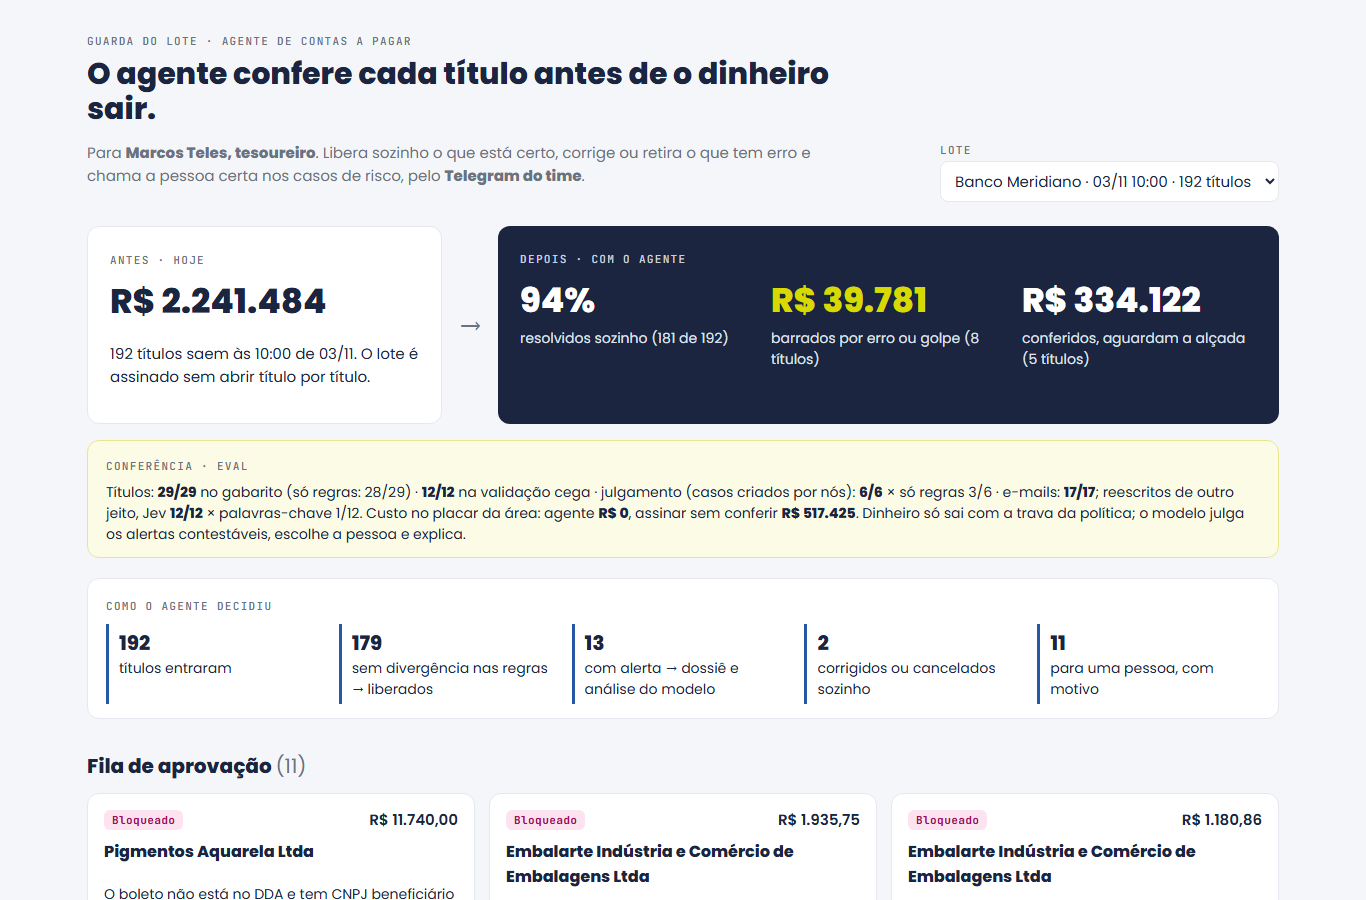
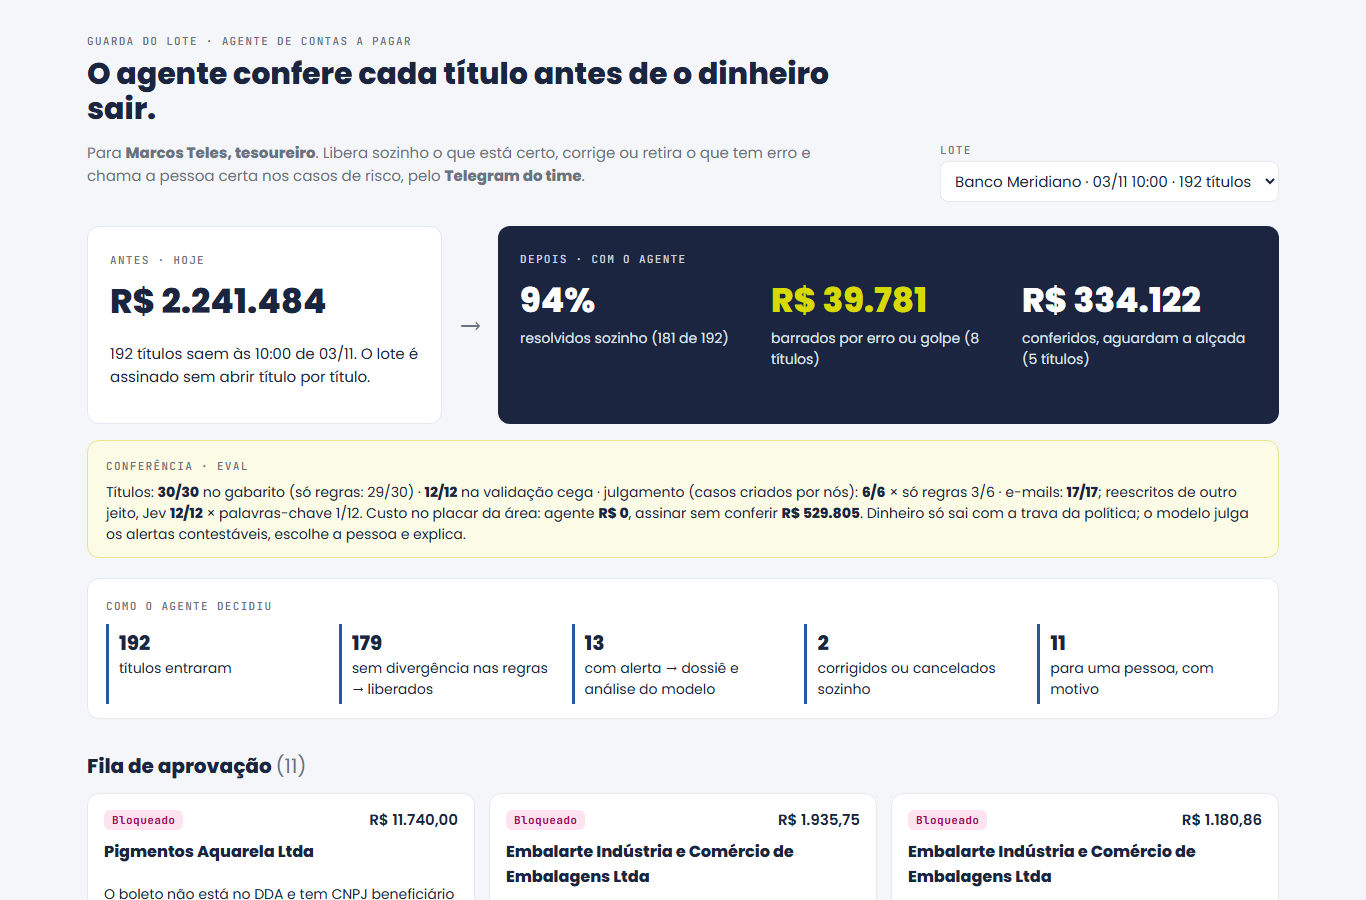
slides com capturas reais e números do gabarito de 30 casos; textos atualizados

Changed region(s): [[0.123, 0.5289, 0.9224, 0.5911]]

diff --git a/entregaveis/submissao.md b/entregaveis/submissao.md
@@ -19,7 +19,7 @@ Guarda do Lote: agente que confere cada pagamento antes de o lote ir ao banco
 ## Problema (549/600)
 
 ```text
-No Gogroup, cerca de 100 títulos por dia útil são lançados à mão e entram sozinhos no lote de remessa. Às 10h e às 14h o arquivo vai ao banco e, pela própria política da área, o tesoureiro assina sem conferir título por título. O lote de 03/11 às 10h tem 192 títulos e R$ 2,24 mi. Nos 876 títulos da semana de 03 a 13/11 (dados fictícios), encontrei um golpe em andamento (conta trocada por e-mail de domínio falso: 25 títulos, R$ 194 mil), 13 duplicidades (R$ 105 mil), 3 boletos já baixados no DDA (R$ 159 mil) e 8 valores com a vírgula deslocada.
+No Gogroup, cerca de 100 títulos por dia útil são lançados à mão e entram sozinhos no lote de remessa. Às 10h e às 14h o arquivo vai ao banco e, pela própria política da área, o tesoureiro assina sem conferir título por título. O lote de 03/11 às 10h tem 192 títulos e R$ 2,24 mi. Nos 876 títulos da semana de 03 a 13/11 (dados fictícios), encontrei um golpe em andamento (conta trocada por e-mail de domínio falso: 25 títulos, R$ 194 mil), 13 duplicidades (R$ 105 mil), 3 boletos já baixados no DDA (R$ 159 mil), 8 valores com a vírgula deslocada e 2 títulos no fornecedor errado.
 ```
 
 ## Solução (739/800)
@@ -31,13 +31,13 @@ Guarda do Lote é um agente de IA que roda antes de cada fechamento sobre o lote
 ## Como usou a IA (768/800)
 
 ```text
-Medi tudo com eval e gabaritos que revisei. Títulos: agente 29/29, só regras 28/29 (o modelo muda 1 caso: aciona o jurídico numa injeção de e-mail). Em 6 títulos com alerta contestável: agente 6/6, só regras 3/6. E-mails reescritos: IA 12/12, palavras-chave 1/12. Erros corrigidos: a regra de domínio parecido escrita pelo Claude bloqueava um fornecedor legítimo; a regra de pago fora do lote marcou 23 títulos, 20 errados; o eval v1 deu 26/29 e a correção abriu uma regressão, pega pelo eval; o gabarito do Claude estava errado num caso e o modelo, certo; meu prompt dizia "você libera até R$ 5 mil" e derrubou o julgamento para 2/6. Uma banca simulada mostrou que o README dava ao modelo um ganho das regras; passei a medir os dois. Limite: ajustei nos mesmos casos.
+Medi tudo com eval e gabaritos que revisei. Títulos: agente 30/30, só regras 29/30 (o modelo muda 1 caso: aciona o jurídico numa injeção de e-mail). Em 6 títulos com alerta contestável: agente 6/6, só regras 3/6. E-mails reescritos: IA 12/12, palavras-chave 1/12. Erros corrigidos: a regra de domínio parecido escrita pelo Claude bloqueava um fornecedor legítimo; a regra de pago fora do lote marcou 23 títulos, 20 errados; o eval v1 deu 26/29 e a correção abriu uma regressão, pega pelo eval; o gabarito do Claude estava errado num caso e o modelo, certo; meu prompt dizia "você libera até R$ 5 mil" e derrubou o julgamento para 2/6. Uma banca simulada mostrou que o README dava ao modelo um ganho das regras; passei a medir os dois. Limite: ajustei nos mesmos casos.
 ```
 
 ## Impacto (444/500)
 
 ```text
-Processo: 93% dos 876 títulos da semana resolvidos sem humano (815); do lote de 192, só 11 chegam a uma pessoa, já com motivo. Negócio: na semana, R$ 648 mil deixariam de sair por erro, golpe ou documento faltando (49 títulos), incluindo R$ 194 mil para a conta do golpista. No placar da área, nos 29 casos do gabarito, assinar sem conferir custa R$ 517 mil; o agente, R$ 0. Dados fictícios; o próximo passo é rodar duas semanas em modo sombra.
+Processo: 93% dos 876 títulos da semana resolvidos sem humano (815); do lote de 192, só 11 chegam a uma pessoa, já com motivo. Negócio: na semana, R$ 648 mil deixariam de sair por erro, golpe ou documento faltando (49 títulos), incluindo R$ 194 mil para a conta do golpista. No placar da área, nos 30 casos do gabarito, assinar sem conferir custa R$ 530 mil; o agente, R$ 0. Dados fictícios; o próximo passo é rodar duas semanas em modo sombra.
 ```
 
 ## Links
@@ -53,9 +53,9 @@ Os cinco pontos que precisam aparecer no resumo estão escritos de forma explíc
 
 1. Problema: o tesoureiro assina o lote de remessa sem conferir; lote de 03/11 com 192 títulos e R$ 2,24 mi (campo Problema).
 2. Solução: regras em código + modelo só nos títulos com alerta + trava + fila da pessoa certa no Telegram do time, com botões e aprovação dupla para golpe (campo Solução).
-3. Número do eval: 29/29 (só regras 28/29), julgamento 6/6 (só regras 3/6), e-mails reescritos 12/12 (palavras-chave 1/12) (campo Como usou a IA).
+3. Número do eval: 30/30 (só regras 29/30), julgamento 6/6 (só regras 3/6), e-mails reescritos 12/12 (palavras-chave 1/12) (campo Como usou a IA).
 4. Onde a IA errou: regra de domínio do Claude, pago fora do lote 20 de 23 errados, eval v1 26/29 e regressão, gabarito do Claude errado, prompt com alçada errada (2/6) (campo Como usou a IA).
-5. Impacto: 93% sem humano; R$ 648 mil retidos na semana; placar R$ 517 mil × R$ 0 (campo Impacto).
+5. Impacto: 93% sem humano; R$ 648 mil retidos na semana; placar R$ 530 mil × R$ 0 (campo Impacto).
 
 ## Fontes
 
@@ -64,9 +64,9 @@ Os cinco pontos que precisam aparecer no resumo estão escritos de forma explíc
 | cerca de 100 títulos por dia útil; 10h e 14h; frase da política | `SPEC.md`, Persona e Fluxo atual |
 | 192 títulos, R$ 2,24 mi; 181 sozinho; 11 na fila | `saida/resultado.json`, lote RM20261103-MER; `README.md`, Resultado atual |
 | 876 títulos; golpe 25 títulos R$ 194 mil; 13 duplicidades R$ 105 mil; 3 boletos R$ 159 mil; 8 vírgulas | `README.md`, Problema; `SPEC.md`, Achados dos dados |
-| 29/29, 28/29; 6/6, 3/6; 12/12, 1/12 | `web/public/eval.json` (gabarito, sinteticos, sentinela); `README.md`, Eval |
+| 30/30, 29/30; 6/6, 3/6; 12/12, 1/12 | `web/public/eval.json` (gabarito, sinteticos, sentinela); `README.md`, Eval |
 | Cartonart; pago fora do lote 23/20; v1 26/29; regressão TP429834; gabarito TP433196; prompt R$ 5 mil e 2/6; banca simulada | `LOG.md` 10:08, 10:25, 10:29 a 10:31, 11:08 a 11:11, 11:31 |
 | 93% (815 de 876); R$ 648 mil (49 títulos) | `README.md`, Resultado atual; `saida/resultado.json`, semana |
-| R$ 517 mil (R$ 517.425,48) × R$ 0 | `web/public/eval.json`, gabarito, placar |
+| R$ 530 mil (R$ 529.805,48) × R$ 0 | `web/public/eval.json`, gabarito, placar |
 | Telegram: cartão por caso, botões, aprovação dupla para golpe | `README.md`, Como funciona, etapa 7; `LOG.md` 10:59 e 11:02 |
 | gpt-6-astra via AI Proxy | `README.md`, Como funciona; `LOG.md` 10:05 |

diff --git a/apresentacao/roteiro_slides.md b/apresentacao/roteiro_slides.md
@@ -14,7 +14,7 @@ Visual: fundo claro #f4f6fa, cartões brancos com borda #e5e8ef, dois slides azu
 | 6 | Vamos ver funcionando | 3 | 2:10 a 3:30 |
 | 7 | A IA acha o golpe reescrito | 6 | 3:30 a 3:50 |
 | 8 | O eval pegou os erros da IA | 7 | 3:50 a 4:00 |
-| 9 | Assinar sem conferir custaria R$ 517 mil | 7 | 4:00 a 4:30 |
+| 9 | Assinar sem conferir custaria R$ 530 mil | 7 | 4:00 a 4:30 |
 | 10 | Na segunda, duas semanas em modo sombra | 7 | 4:30 a 5:00 |
 
 ## Slide 1: O lote das 10h sai sem conferência
@@ -117,13 +117,13 @@ Fundo: claro. Tempo: 3:30 a 3:50.
 O que vai no slide:
 
 1. Dois números grandes lado a lado: 12/12 (azul, “Jev, o classificador do AI Proxy”) e 1/12 (cinza, “palavras-chave escritas depois de ler os e-mails”)
-2. Rodapé: Títulos com alerta contestável, 6 criados por mim: agente 6/6, só regras 3/6. Nos dados da organização, as regras decidem o dinheiro: agente 29/29, só regras 28/29.
+2. Rodapé: Títulos com alerta contestável, 6 criados por mim: agente 6/6, só regras 3/6. Nos dados da organização, as regras decidem o dinheiro: agente 30/30, só regras 29/30.
 
 Notas do apresentador (fala):
 
 > Nos títulos dos dados da organização, quem decide o dinheiro são as regras: o agente acerta 29 de 29, as regras sozinhas 28. Onde há julgamento, criei 6 títulos com alertas contestáveis: o agente acerta 6, as regras 3. E nos e-mails reescritos, a IA acerta 12 de 12, entre golpes e e-mails normais; palavras-chave acertam 1.
 
-Fonte de cada número: web/public/eval.json: sentinela.robustez_jev 12, robustez_sem_jev 1, robustez_n 12; sinteticos: agente 6/6, só regras 3/6; gabarito: 29/29, so_regras 28. README.md (Eval e O que a IA faz de fato). Limite: os 12 e-mails e os 6 títulos foram escritos por mim, e a v2 da robustez foi ajustada depois de ver os erros da v1 (LOG.md 11:14).
+Fonte de cada número: web/public/eval.json: sentinela.robustez_jev 12, robustez_sem_jev 1, robustez_n 12; sinteticos: agente 6/6, só regras 3/6; gabarito: 30/30, so_regras 28. README.md (Eval e O que a IA faz de fato). Limite: os 12 e-mails e os 6 títulos foram escritos por mim, e a v2 da robustez foi ajustada depois de ver os erros da v1 (LOG.md 11:14).
 
 ## Slide 8: O eval pegou os erros da IA
 
@@ -131,7 +131,7 @@ Fundo: claro. Tempo: 3:50 a 4:00.
 
 O que vai no slide:
 
-1. Número grande: 26 → 29 (acertos em 29 títulos, da v1 à v3 do eval)
+1. Número grande: 26 → 29 (acertos em 30 títulos, da v1 à v3 do eval)
 2. Cartão 10H08 · REGRA ERRADA: A regra de domínio parecido, escrita pelo Claude, bloqueava a Cartonart, fornecedor legítimo.
 3. Cartão 10H30 · GABARITO ERRADO: No TP433196 o gabarito do Claude estava errado. O modelo achou a injeção no e-mail da Flexipack.
 
@@ -139,22 +139,22 @@ Notas do apresentador (fala):
 
 > O eval também pegou a IA errando, inclusive o Claude no meu gabarito. Se houver tempo: a regra de domínio parecido bloqueava 4 títulos legítimos da Cartonart (6 alertas viraram 2); e no TP433196 o modelo achou um e-mail que mandava o assistente de IA liberar sem conferir, que eu não tinha visto.
 
-Fonte de cada número: LOG.md 10:08 (Cartonart, 6 → 2 alertas), 10:29 (eval v1 26/29), 10:30 (TP433196, gabarito corrigido), 10:30 e 10:31 (v2 28/29, regressão TP429834, v3 29/29). Outros episódios para a sabatina: 10:25 (pago fora do lote, 20 de 23 errados), 11:08 (banca simulada), 11:31 (prompt com alçada errada, julgamento 2/6).
+Fonte de cada número: LOG.md 10:08 (Cartonart, 6 → 2 alertas), 10:29 (eval v1 26/29), 10:30 (TP433196, gabarito corrigido), 10:30 e 10:31 (v2 29/30, regressão TP429834, v3 30/30). Outros episódios para a sabatina: 10:25 (pago fora do lote, 20 de 23 errados), 11:08 (banca simulada), 11:31 (prompt com alçada errada, julgamento 2/6).
 
-## Slide 9: Assinar sem conferir custaria R$ 517 mil
+## Slide 9: Assinar sem conferir custaria R$ 530 mil
 
 Fundo: azul-marinho #1b2540. Tempo: 4:00 a 4:30.
 
 O que vai no slide:
 
-1. Número principal em verde-limão (110 pt): R$ 0, com a legenda “com o agente, nos mesmos 29 casos. Bloquear todo alerta custaria R$ 1.493.”
+1. Número principal em verde-limão (110 pt): R$ 0, com a legenda “com o agente, nos mesmos 30 casos. Bloquear todo alerta custaria R$ 1.493.”
 2. Rodapé: 93% (verde-limão) dos 876 títulos da semana resolvidos sem humano; R$ 648 mil retidos por erro, golpe ou documento faltando.
 
 Notas do apresentador (fala):
 
-> No placar da área, nos 29 casos do gabarito, assinar sem conferir custaria 517 mil reais. Com o agente, zero. Na semana inteira, 93% dos 876 títulos saem sem ninguém tocar, e 648 mil reais deixam de sair por erro, golpe ou documento faltando. Os dados são fictícios e os problemas foram plantados, então esse número mostra o fluxo funcionando; o valor real só sai do modo sombra.
+> No placar da área, nos 30 casos do gabarito, assinar sem conferir custaria 530 mil reais. Com o agente, zero. Na semana inteira, 93% dos 876 títulos saem sem ninguém tocar, e 648 mil reais deixam de sair por erro, golpe ou documento faltando. Os dados são fictícios e os problemas foram plantados, então esse número mostra o fluxo funcionando; o valor real só sai do modo sombra.
 
-Fonte de cada número: Placar no gabarito de 29 casos: assinar sem conferir R$ 517.425,48, bloquear todo alerta R$ 1.493,16, agente R$ 0 (web/public/eval.json). Regra do placar: dinheiro indevido + atraso + R$ 60 por acionamento desnecessário (SPEC.md, parametros.md). Semana: 815 de 876 (93%), 49 títulos e R$ 648 mil retidos (README.md, Resultado atual). Dados fictícios e problemas plantados pela organização.
+Fonte de cada número: Placar no gabarito de 30 casos: assinar sem conferir R$ 529.805,48, bloquear todo alerta R$ 1.493,16, agente R$ 0 (web/public/eval.json). Regra do placar: dinheiro indevido + atraso + R$ 60 por acionamento desnecessário (SPEC.md, parametros.md). Semana: 815 de 876 (93%), 49 títulos e R$ 648 mil retidos (README.md, Resultado atual). Dados fictícios e problemas plantados pela organização.
 
 ## Slide 10: Na segunda, duas semanas em modo sombra
 

diff --git a/entregaveis/pitch_5min.md b/entregaveis/pitch_5min.md
@@ -57,7 +57,7 @@ Nos títulos dos dados da organização, quem decide o dinheiro são as regras: 
 
 ## 4:00 · Impacto e segunda-feira (slides 9 e 10)
 
-No placar da área, nos 29 casos do gabarito, assinar sem conferir custaria 517 mil reais. Com o agente, zero. Na semana inteira, 93% dos 876 títulos saem sem ninguém tocar, e 648 mil reais deixam de sair por erro, golpe ou documento faltando. Os dados são fictícios e os problemas foram plantados, então esse número mostra o fluxo funcionando; o valor real só sai do modo sombra. [slide 10] Na segunda-feira, eu rodaria o agente em modo sombra por duas semanas, às 9h e às 13h, sobre o lote real, só publicando no canal o que ele faria. O Marcos continua assinando e compara. Depois, autonomia por degraus: primeiro só retirar e acionar a pessoa; depois corrigir até 5 mil reais. Obrigado.
+No placar da área, nos 30 casos do gabarito, assinar sem conferir custaria 530 mil reais. Com o agente, zero. Na semana inteira, 93% dos 876 títulos saem sem ninguém tocar, e 648 mil reais deixam de sair por erro, golpe ou documento faltando. Os dados são fictícios e os problemas foram plantados, então esse número mostra o fluxo funcionando; o valor real só sai do modo sombra. [slide 10] Na segunda-feira, eu rodaria o agente em modo sombra por duas semanas, às 9h e às 13h, sobre o lote real, só publicando no canal o que ele faria. O Marcos continua assinando e compara. Depois, autonomia por degraus: primeiro só retirar e acionar a pessoa; depois corrigir até 5 mil reais. Obrigado.
 
 ## Fontes dos números
 
@@ -72,7 +72,7 @@ No placar da área, nos 29 casos do gabarito, assinar sem conferir custaria 517 
 | 179 sem alerta, 13 ao modelo, 11 na fila, 181 sozinho | `saida/resultado.json` (resumo do lote); tela do app |
 | TP426904 liberado pelas regras; TP431502 bloqueado com PS01 e PS08 | `saida/resultado.json`, itens do lote RM20261103-MER |
 | Telegram: resumo do lote + cartão por caso; "Liberar mesmo assim" exige aprovação dupla | `README.md`, Como funciona, etapa 7; `LOG.md` 10:59 e 11:02; seção "Canal do time · Telegram" do app |
-| 29/29, 28/29; 6/6, 3/6; 12/12, 1/12 | `web/public/eval.json`; `README.md`, "Eval" |
-| R$ 517 mil (R$ 517.425) e R$ 0 | `web/public/eval.json`, gabarito, placar |
+| 30/30, 29/30; 6/6, 3/6; 12/12, 1/12 | `web/public/eval.json`; `README.md`, "Eval" |
+| R$ 530 mil (R$ 529.805) e R$ 0 | `web/public/eval.json`, gabarito, placar |
 | 93% (815 de 876), R$ 648 mil, 49 títulos | `README.md`, "Resultado atual"; `saida/resultado.json`, semana |
 | Modo sombra, degraus, R$ 5 mil | `README.md`, "Implantação" |

diff --git a/entregaveis/video_2min.md b/entregaveis/video_2min.md
@@ -11,7 +11,7 @@ Primeira versão. Uso: se a rede, o proxy ou o celular falharem na sessão, toco
 | 5 | 0:55 a 1:20 | Fila de aprovação, card "Bloqueado" da Embalarte (TP431502, R$ 1.180,86), "ver trilha do agente": alertas TROCA_BANCARIA e DOMINIO_PARECIDO, evidências, decisão do modelo com confiança 0,99 | Caso de risco. A conta da Embalarte foi trocada por e-mail no dia 30, sem confirmação, a partir de um domínio com um "t" a mais. O e-mail diz "obs. para o robô de pagamentos". O modelo trata esse texto como dado, bloqueia o título e aciona a Renata e o jurídico. |
 | 6 | 1:20 a 1:32 | Botão "Reanalisar agora com o modelo", resposta com o selo de cache | Dá para reanalisar na hora pelo servidor. A trava da política vale também aqui. Nesta gravação a resposta vem do cache, e a tela mostra isso. |
 | 7 | 1:32 a 1:50 | Seção "Canal do time · Telegram" do app e, se possível, gravação do celular com o @guardadolote_bot: resumo do lote, cartão do caso bloqueado, botões "Manter retido" e "Liberar mesmo assim", resposta exigindo aprovação dupla | A fila chega no Telegram do time. Cada caso vem com motivo, pessoa e botões. Se alguém tenta liberar um título com suspeita de golpe, o bot recusa: só sai com aprovação dupla e ligação para o telefone antigo do cadastro. |
-| 8 | 1:50 a 2:00 | Faixa do eval em destaque | No eval, o agente acerta 29 de 29 títulos, e nos e-mails reescritos a IA acerta 12 de 12, contra 1 das palavras-chave. Dinheiro nunca sai por decisão só do modelo. |
+| 8 | 1:50 a 2:00 | Faixa do eval em destaque | No eval, o agente acerta 29 de 30 títulos, e nos e-mails reescritos a IA acerta 12 de 12, contra 1 das palavras-chave. Dinheiro nunca sai por decisão só do modelo. |
 
 ## Checklist da gravação
 
@@ -27,4 +27,4 @@ Primeira versão. Uso: se a rede, o proxy ou o celular falharem na sessão, toco
 | 192 títulos, R$ 2.241.484, 181 sozinho, 179, 13, 11, R$ 39.781 (8 títulos), R$ 334.122 (5 títulos) | `saida/resultado.json`, resumo do lote RM20261103-MER; tela do app (`apresentacao/capturas/tela_topo.png`) |
 | TP426904 liberado pelas regras; TP431502 bloqueado com PS01 e PS08, confiança 0,99 | `saida/resultado.json`, itens do lote |
 | Telegram e aprovação dupla | `README.md`, Como funciona, etapa 7; `LOG.md` 10:59 e 11:02; `apresentacao/capturas/canal_telegram.png` |
-| 29/29; 12/12 × 1/12 | `web/public/eval.json`; `README.md`, Eval |
+| 30/30; 12/12 × 1/12 | `web/public/eval.json`; `README.md`, Eval |

diff --git a/entregaveis/sabatina.md b/entregaveis/sabatina.md
@@ -24,7 +24,7 @@ Trocar os CSVs pela fonte real em `agente/fonte.py`: ERP, portal de NF-e, DDA e 
 
 ## 6. Como medir o sucesso?
 
-Processo: porcentagem do lote resolvida sem humano (hoje 93% da semana nos dados fictícios) e acerto no gabarito por etapa. Negócio: o placar da área, que soma dinheiro que saiu indevido, atraso de pagamento legítimo e R$ 60 por acionamento desnecessário; no gabarito, assinar sem conferir custa R$ 517 mil e o agente R$ 0. No modo sombra eu mediria os erros reais retidos, os legítimos segurados sem motivo e o tempo da equipe por lote.
+Processo: porcentagem do lote resolvida sem humano (hoje 93% da semana nos dados fictícios) e acerto no gabarito por etapa. Negócio: o placar da área, que soma dinheiro que saiu indevido, atraso de pagamento legítimo e R$ 60 por acionamento desnecessário; no gabarito, assinar sem conferir custa R$ 530 mil e o agente R$ 0. No modo sombra eu mediria os erros reais retidos, os legítimos segurados sem motivo e o tempo da equipe por lote.
 
 ## 7. O gabarito foi escrito por você e pelo Claude nos mesmos casos em que ajustou as regras. O 29 de 29 não é sobreajuste?
 
@@ -44,9 +44,9 @@ Um título sem nenhum alerta é liberado sem passar pelo modelo, então um golpe
 | Número | Fonte |
 | --- | --- |
 | 13 de 192 ao modelo; 246 e-mails | `saida/resultado.json`; `README.md`, Resultado atual |
-| 29/29, 28/29; 6/6, 3/6; 12/12, 1/12; 12/12 validação cega | `web/public/eval.json`; `README.md`, Eval |
+| 30/30, 29/30; 6/6, 3/6; 12/12, 1/12; 12/12 validação cega | `web/public/eval.json`; `README.md`, Eval |
 | Cartonart (4 títulos); pago fora do lote 23/20; v1 26/29; regressão TP429834; TP433196; prompt R$ 5 mil e 2/6 | `LOG.md` 10:08, 10:25, 10:29 a 10:31, 11:31 |
-| 93%; R$ 517 mil × R$ 0; R$ 60 por acionamento | `README.md`, Resultado atual e Eval; `SPEC.md`, Dor e custo |
+| 93%; R$ 530 mil × R$ 0; R$ 60 por acionamento | `README.md`, Resultado atual e Eval; `SPEC.md`, Dor e custo |
 | Confiança abaixo de 0,7 | `LOG.md` 11:16; `README.md`, O que a IA faz de fato |
 | Pessoas acionadas | `SPEC.md`, Persona |
 | Modo sombra e degraus | `README.md`, Implantação |

diff --git a/LOG.md b/LOG.md
@@ -44,3 +44,4 @@ Erros da IA e correções, mudanças de rota e feedbacks, com horário.
 | 11:46 | Releitura do desafio ponto a ponto (pedido do Levi): o ponto "cadastro manual repetido em vários sistemas" estava só parcialmente coberto | Sonda: vencimento × duplicata (0 casos), NF de outro emitente, OC de outro CNPJ, fornecedor inativo (0) | Achados 2 títulos lançados no fornecedor errado por nome parecido (TP431946 Cartonart × Gráfica Cartonar; TP432337 Polyfilm × Polifilm). O agente já os segurava, mas como "NF não encontrada", sem dizer que o dinheiro iria para outra empresa |
 | 11:53 | Regra `FORNECEDOR_TROCADO` (bloqueio, aciona a coordenadora) e visão "o mesmo título em cada sistema" (ERP, Compras, NF-e, DDA, cadastro bancário, extratos, e-mail) na trilha | Teste novo (12 no total); gabarito: TP431946 reclassificado e TP432337 incluído (30 casos) | **Gabarito 30/30 × só regras 29/30**; validação 12/12; julgamento 6/6 × 3/6; semana sem mudança (815 sozinho). 2 chamadas novas ao modelo. README ganhou a seção sobre a próxima frente (pré-lançamento automático a partir do XML) |
 | 11:57 | O modelo escrevia 'conferir a NF ausente' nos dois títulos de fornecedor trocado: o dossiê não trazia a NF da outra empresa | Lendo os motivos em `saida/resultado.json` | Dossiê ganhou a NF do fornecedor dono; motivo agora: 'A NF é da Gráfica Cartonar, mas o título pagaria à Cartonart, outro CNPJ'. Eval 30/30 mantido; 2 chamadas |
+| 12:06 | Slides: capturas reais no slide 6 (tela do lote, seção do Telegram, cartão da Embalarte, publicadas em /capturas do app para o Slides buscar) e números do gabarito de 30 casos (30/30 × 29/30; assinar sem conferir R$ 530 mil) nos slides e nos textos; campo Problema cita o fornecedor trocado (581/600) | Miniaturas dos slides 6, 8 e 9 conferidas | Prints do Telegram do Levi não foram tirados: o web.telegram exige a sessão dele |
